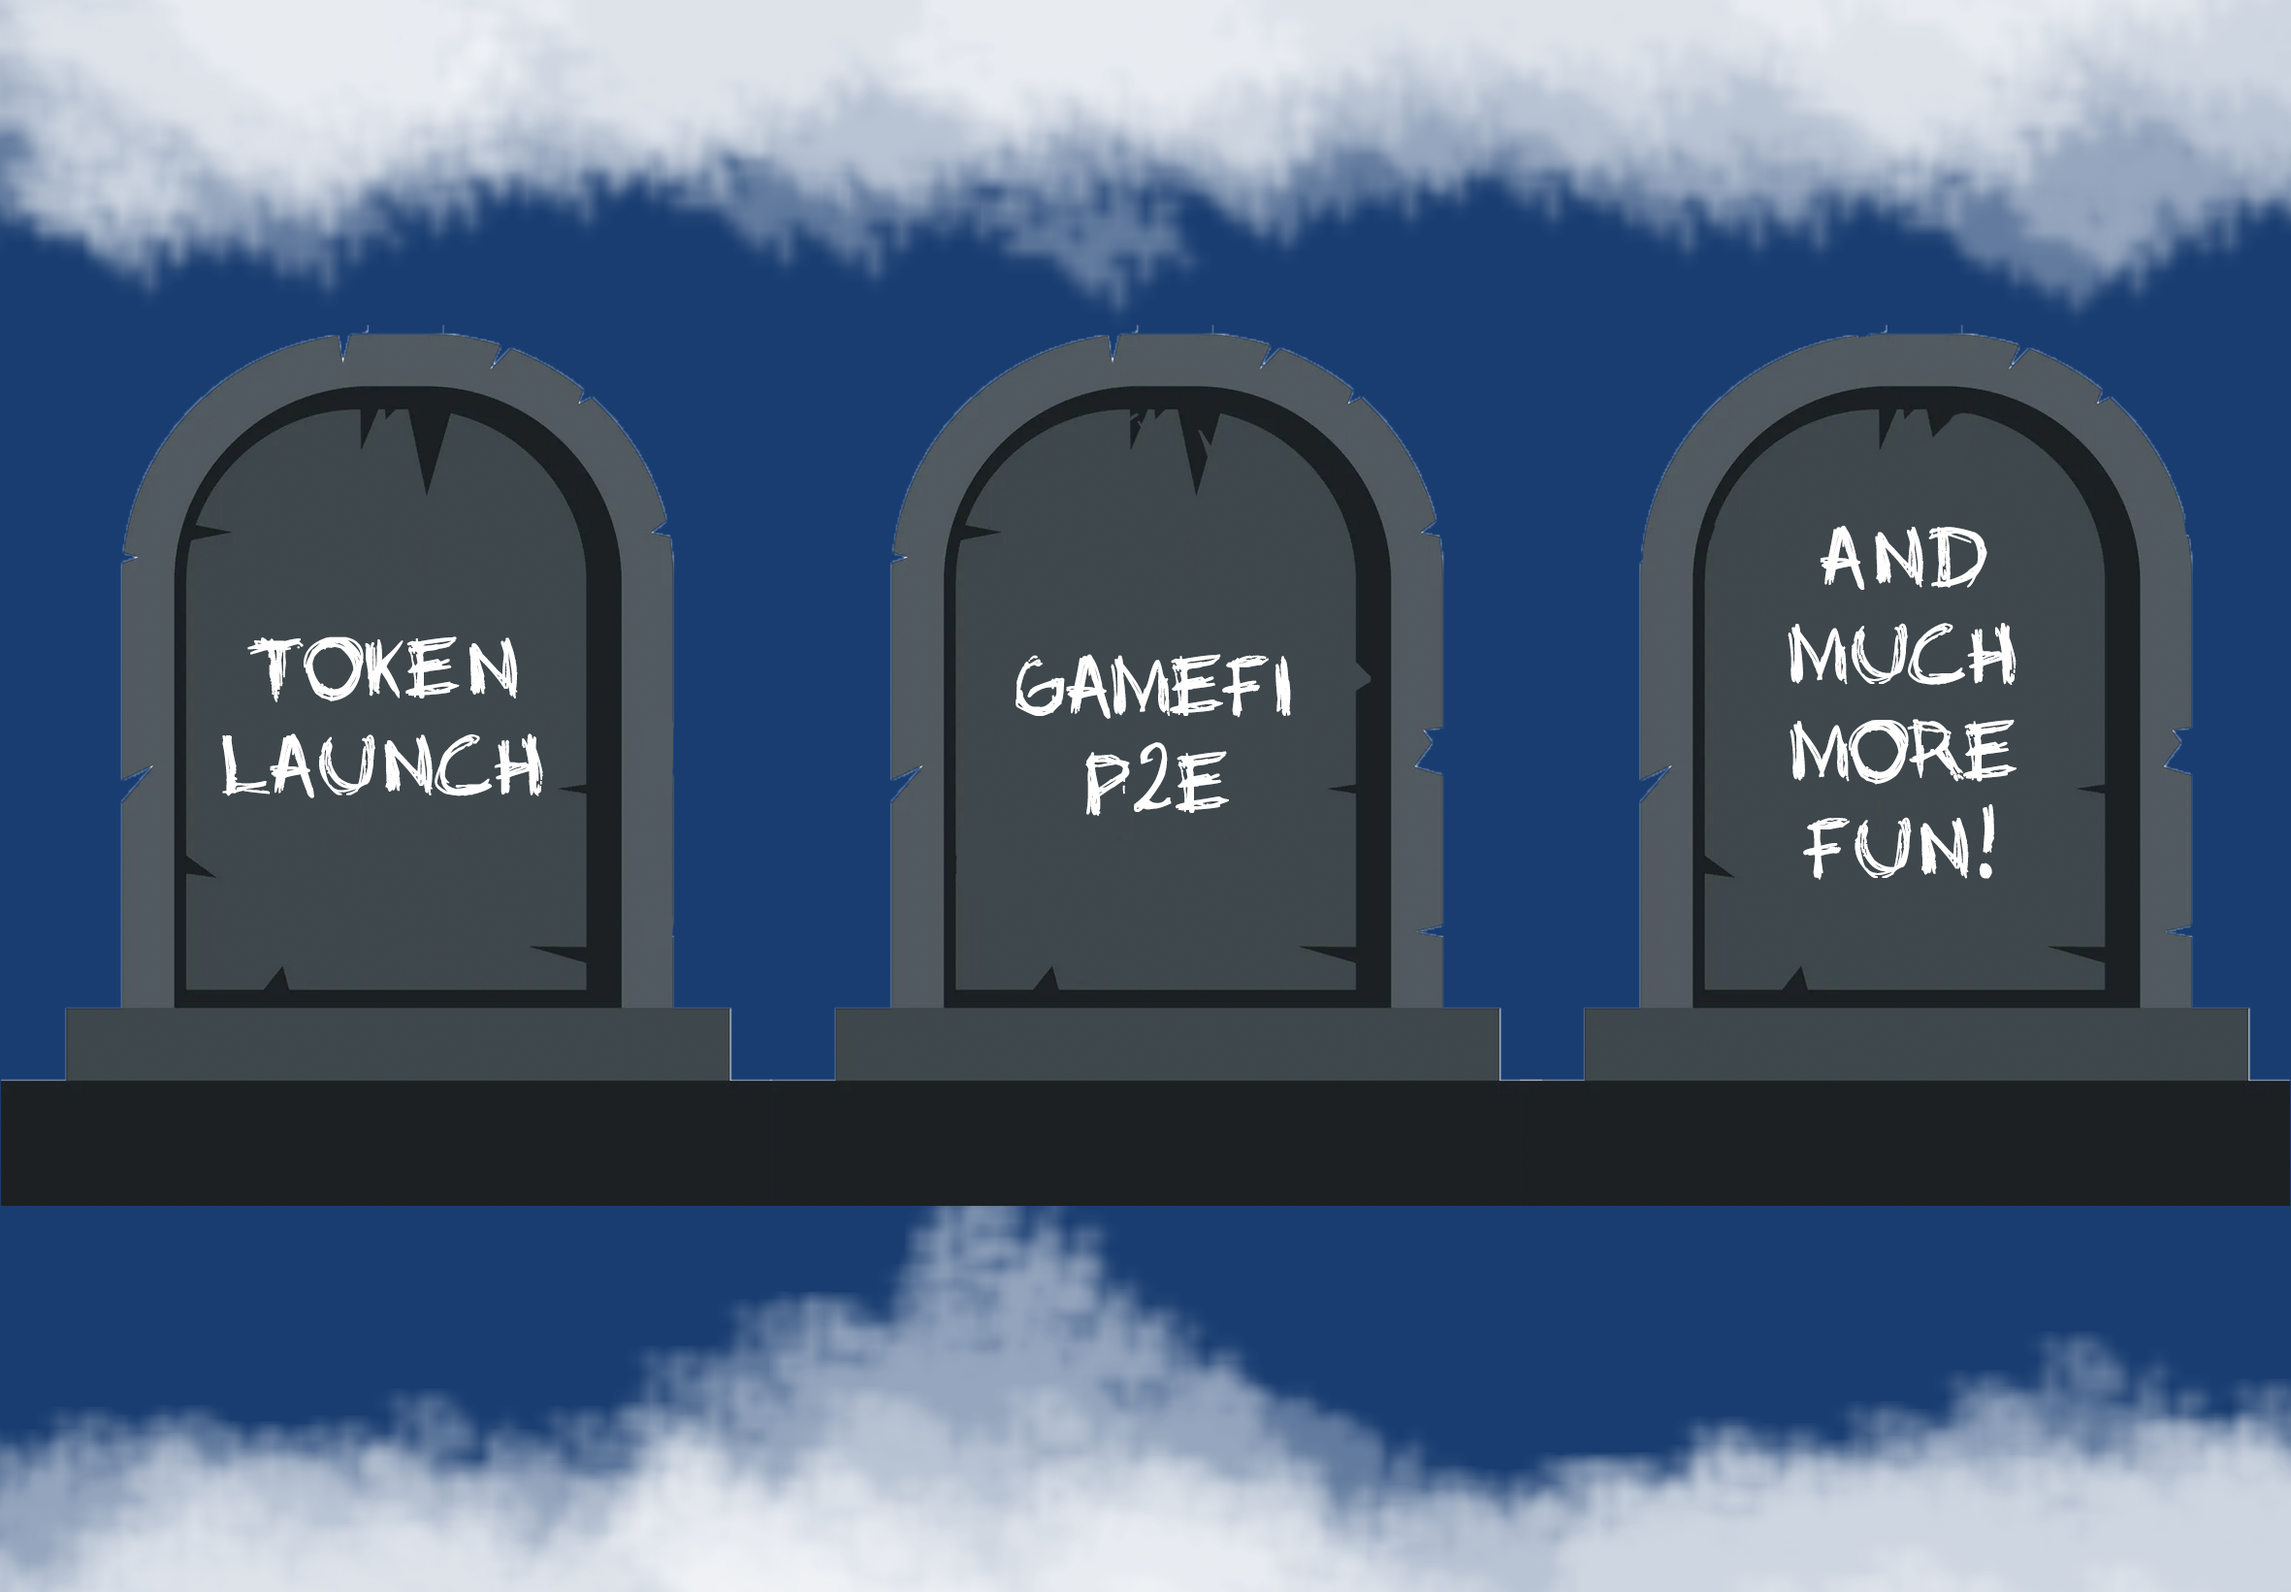
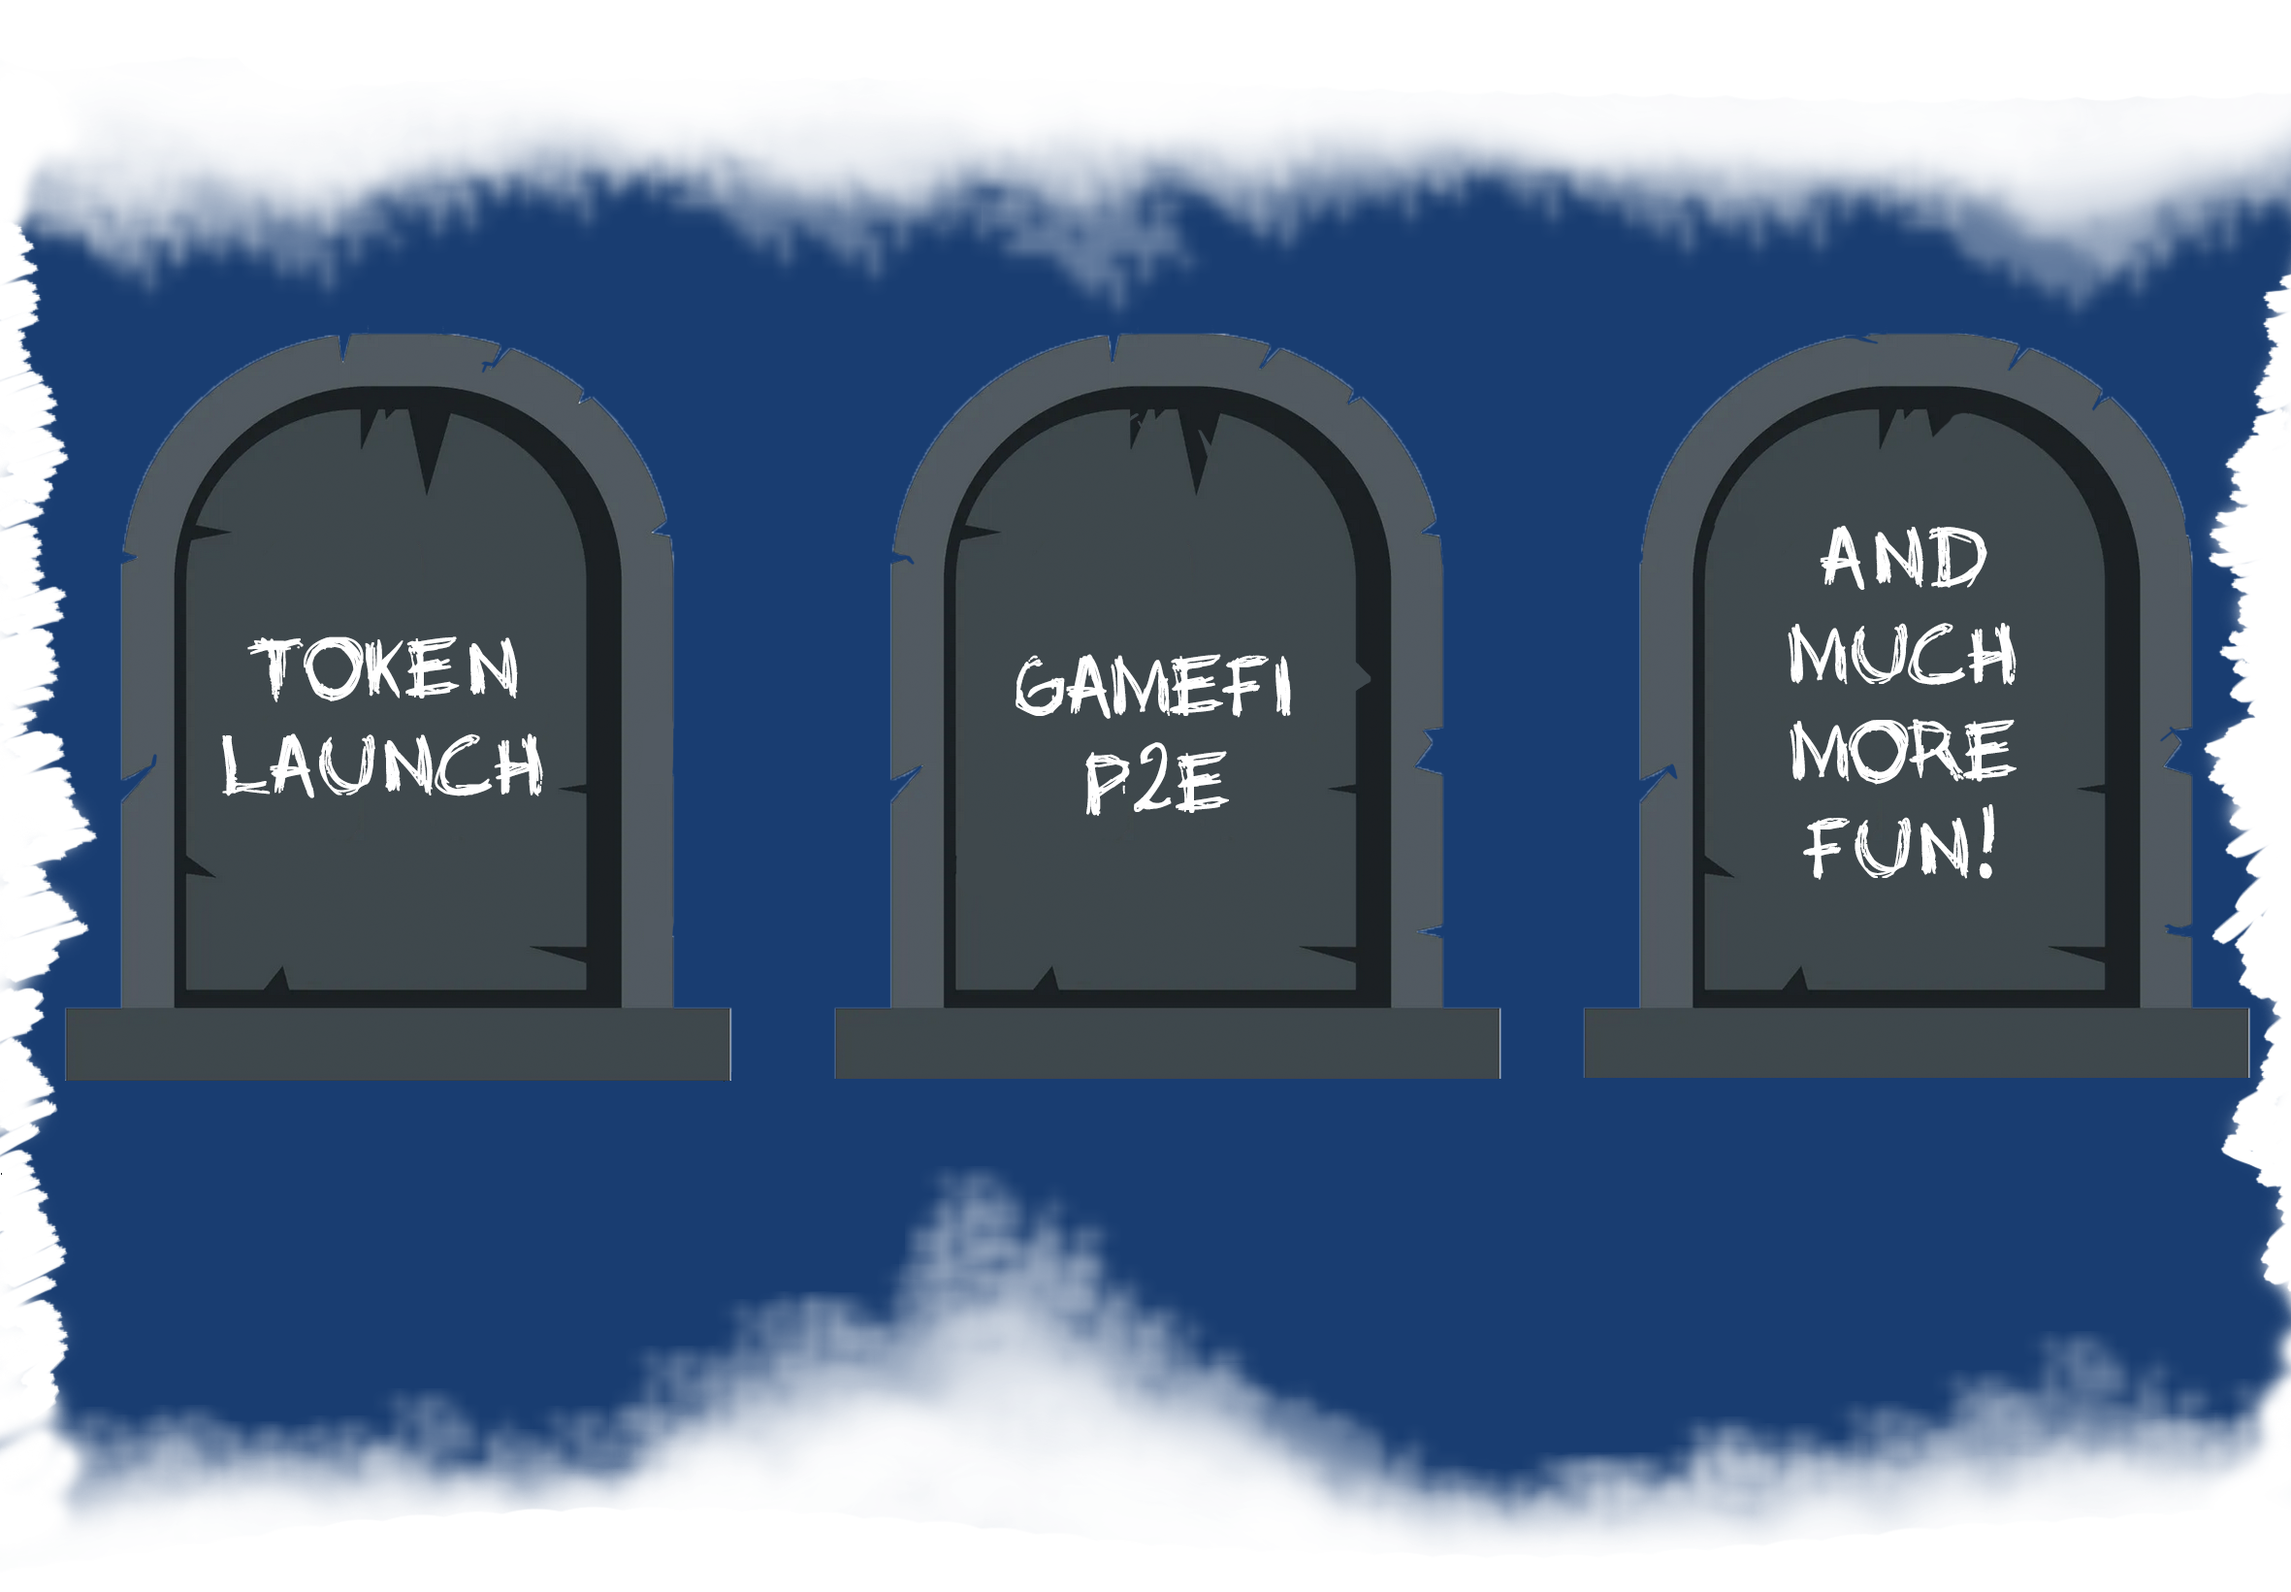
fix vari

Changed region(s): [[0.0, 0.0, 1.0, 1.0]]

diff --git a/src/app/Mobile/m-home/m-home.component.html b/src/app/Mobile/m-home/m-home.component.html
@@ -6,9 +6,10 @@
     <img src="./assets/Graveyard/moon.png" id="moon">
     <img src="./assets/Graveyard/grass.png" id="grass">
 
-    <h2 id="text">CroSKull</h2>
+    
+    <img src="./assets/Graveyard/logo-section.png" id="logo-section">
     <a href="#" id="btn">Mint</a>
-    <img src="./assets/Graveyard/grave2.png" id="graves">
+    <img src="./assets/Graveyard/grave.png" id="graves">
   </section>
   <div class="sec">
 
@@ -66,7 +67,7 @@
     </div>
 
     <div class="container2">
-      <img src="./assets/Graveyard/banner2.png" class="img-banner" />
+      <img src="./assets/Graveyard/banner.png" class="img-banner" />
 
       <div class="card card1">
         <div class="imgBx">

diff --git a/src/app/Desktop/home/home.component.html b/src/app/Desktop/home/home.component.html
@@ -19,7 +19,7 @@
     
     <img src="./assets/Graveyard/logo-section.png" id="logo-section">
     <a href="#" id="btn">Mint</a>
-    <img src="./assets/Graveyard/grave2.png" id="graves">
+    <img src="./assets/Graveyard/grave.png" id="graves">
   </section>
 
 
@@ -89,7 +89,7 @@
     
     <!-- BANNER -->
     <div class="container2" >
-      <img src="./assets/Graveyard/banner3.png" id="banner" style="position: relative;" />
+      <img src="./assets/Graveyard/banner.png" id="banner" style="position: relative;" />
 
       <div class="card1 card">
         <div class="imgBx">

diff --git a/src/app/Mobile/m-home/m-home.component.ts b/src/app/Mobile/m-home/m-home.component.ts
@@ -49,7 +49,7 @@ export class MHomeComponent implements OnInit {
     let cloud = document.getElementById('cloud') as HTMLElement;
     let moon = document.getElementById('moon') as HTMLElement;
     let grass = document.getElementById('grass') as HTMLElement;
-    let text = document.getElementById('text') as HTMLElement;
+    let text = document.getElementById('logo-section') as HTMLElement;
     let btn = document.getElementById('btn') as HTMLElement;
 
     cloud.style.top = value * 0.25 + 'px';

diff --git a/src/app/Mobile/m-home/m-home.component.css b/src/app/Mobile/m-home/m-home.component.css
@@ -67,6 +67,13 @@ section img#graves
     z-index: 9;  
     font-family: 'Headhunter';
 }
+#logo-section
+{
+    height: 60%;
+    width: 60%;
+    top: 17%;
+    left: 20%;
+}
 #btn
 {
     text-decoration: none;
@@ -75,9 +82,9 @@ section img#graves
     border-radius: 40px;
     background: #fff;
     color: #2b1055;
-    font-size: 1em;
+    font-size: 0.5em;
     z-index: 10;
-    transform: translateY(10%);
+    transform: translateY(100%);
     font-family: 'Headhunter';
 }
 .sec
